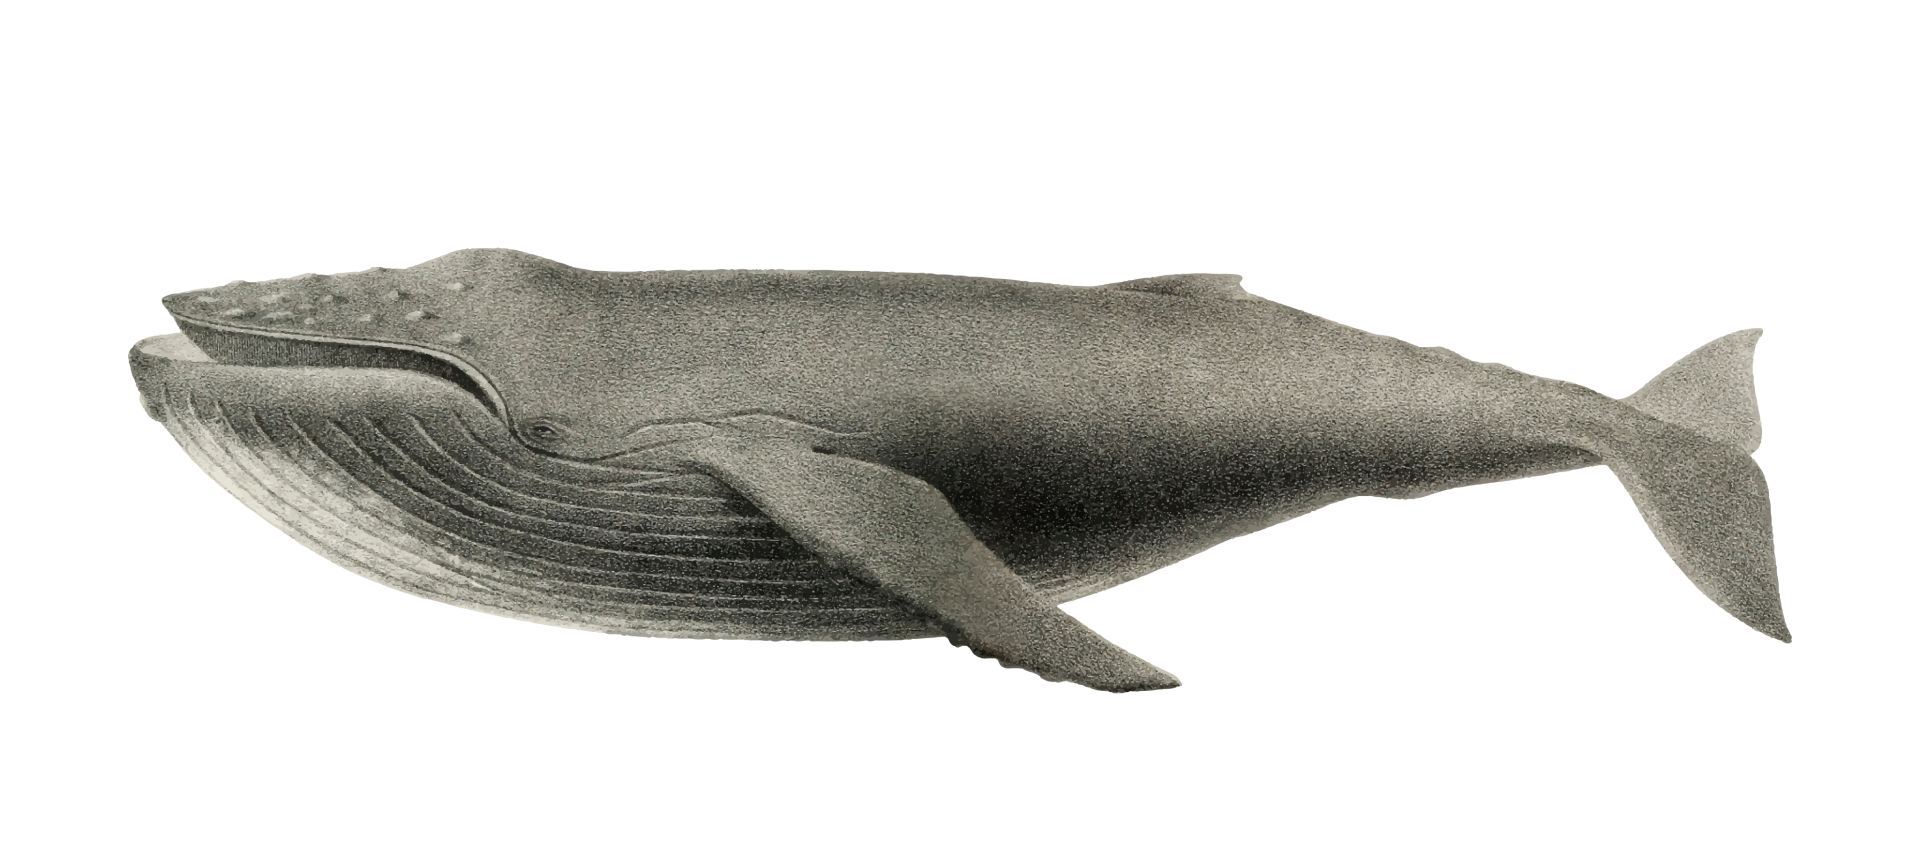
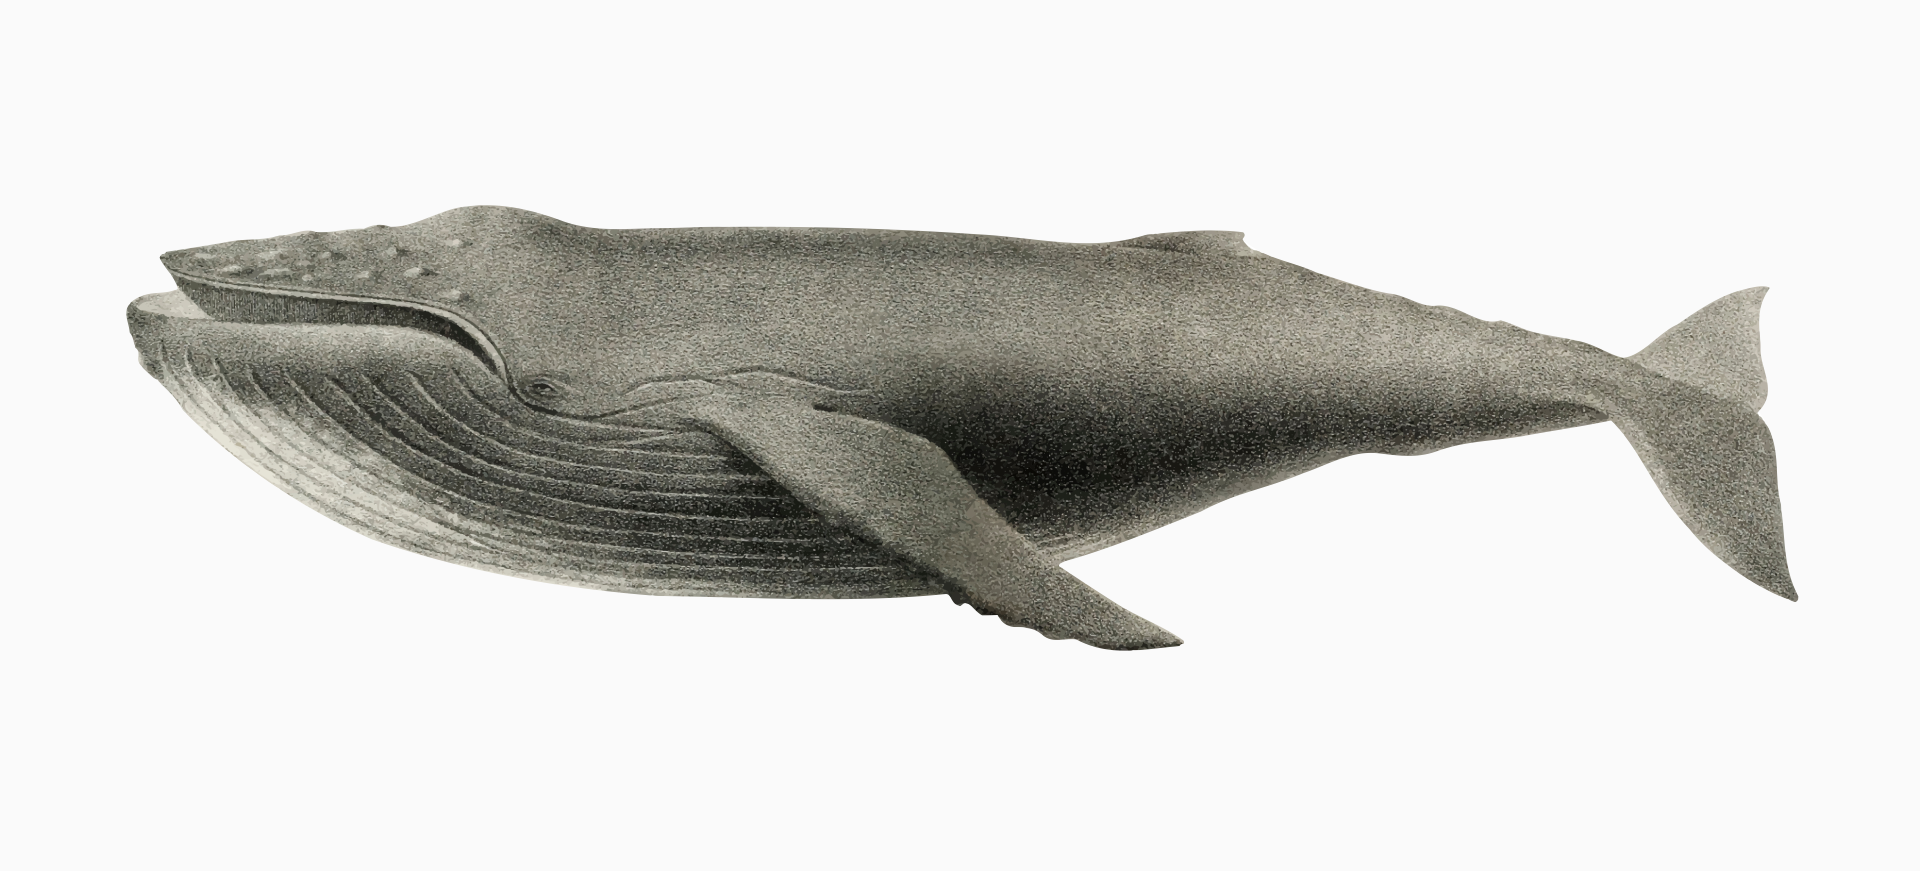
img and menu

Changed region(s): [[0.0625, 0.218, 0.9375, 0.8097]]

diff --git a/src/components/Navmenu.js b/src/components/Navmenu.js
@@ -1,0 +1,96 @@
+import React from 'react';
+import { Link } from "gatsby"
+
+import clsx from 'clsx';
+import { makeStyles } from '@material-ui/core/styles';
+import SwipeableDrawer from '@material-ui/core/SwipeableDrawer';
+import Button from '@material-ui/core/Button';
+import List from '@material-ui/core/List';
+import Divider from '@material-ui/core/Divider';
+import ListItem from '@material-ui/core/ListItem';
+import ListItemIcon from '@material-ui/core/ListItemIcon';
+import ListItemText from '@material-ui/core/ListItemText';
+import InboxIcon from '@material-ui/icons/MoveToInbox';
+import MailIcon from '@material-ui/icons/Mail';
+import scrollTo from 'gatsby-plugin-smoothscroll';
+
+const useStyles = makeStyles({
+  list: {
+    width: 250,
+  },
+  fullList: {
+    width: 'auto',
+  },
+});
+
+function getIdforLink(index){
+  switch(index){
+    case 0:
+      return '#hero-home';
+    case 1:
+      return '#products';
+    case 2:
+      return '#steps';
+    case 3:
+      return '#realisations'
+
+  }
+}
+
+export default function SwipeableTemporaryDrawer() {
+  const classes = useStyles();
+  const [state, setState] = React.useState({
+    top: false,
+    left: false,
+    bottom: false,
+    right: false,
+  });
+
+  const toggleDrawer = (anchor, open) => (event) => {
+    if (event && event.type === 'keydown' && (event.key === 'Tab' || event.key === 'Shift')) {
+      return;
+    }
+
+    setState({ ...state, [anchor]: open });
+  };
+
+  const list = (anchor) => (
+    <div
+      className={clsx(classes.list, {
+        [classes.fullList]: anchor === 'top' || anchor === 'bottom',
+      })}
+      role="presentation"
+      onClick={toggleDrawer(anchor, false)}
+      onKeyDown={toggleDrawer(anchor, false)}
+    >
+      <List>
+        {['Home', 'Cennik', 'Kroki', 'Realizacje'].map((text, index) => (
+          <ListItem>
+          <Link to={getIdforLink(index)} key={text}>
+            <ListItemText primary={text} />
+          </Link>
+          </ListItem>
+          
+        ))}
+      </List>
+    </div>
+  );
+const anchor = 'left';
+  return (
+    <div>
+      {/*{['left', 'right', 'top', 'bottom'].map((anchor) => (*/}
+        <React.Fragment key={anchor}>
+          <Button onClick={toggleDrawer(anchor, true)} style={{position: "fixed", top: '15px', left: "15px"}}>MENU</Button>
+          <SwipeableDrawer
+            anchor={anchor}
+            open={state[anchor]}
+            onClose={toggleDrawer(anchor, false)}
+            onOpen={toggleDrawer(anchor, true)}
+          >
+            {list(anchor)}
+          </SwipeableDrawer>
+        </React.Fragment>
+      {/*}))}*/}
+    </div>
+  );
+}

diff --git a/src/components/Products.js b/src/components/Products.js
@@ -141,7 +141,7 @@ const Products = () => {
               <Box p={3}  style={{ height: "100%" }} display="flex" flexDirection="column">
                 <Box >
                   <Typography variant="h4" align="center" gutterBottom>{item.title}</Typography>
-                  <Typography variant="h4" align="center" gutterBottom>{item.price} PLN</Typography>
+                  <Typography variant="h4" align="center" gutterBottom>od {item.price} PLN</Typography>
                 </Box>
                 <Divider />
                 <Box p={0} style={{ height: "100%" }} display="flex" flexDirection="column">
@@ -176,19 +176,19 @@ const Products = () => {
         <Box mt={4}>      
         <Grid container spacing={2}>
           <Grid item xs={12} md={6}>
-            <Paper>
+            <Paper style={{height: "100%"}}>
               <Box boxShadow={0} style={{ height: "100%" }} display="flex" flexDirection="column">
                 <Box p={3} display="flex" flexWrap="wrap" alignItems="center">
                   <Typography variant="h4" >Coś innego?</Typography>
                   <img src={ideaIcon} width="64px" height="64px" style={{marginLeft: "auto"}}/>
-                  <Typography style={{marginTop: "16px"}} variant="body1">Masz inny pomysł na swoją stronę? Znajdziemy rozwiązanie i zbudujemy stronę spełniające Twoje wymagania.</Typography>
+                  <Typography style={{marginTop: "16px"}} variant="body1">Masz już gotowy projekt strony? A może masz inny pomysł na swoją stronę? Znajdziemy rozwiązanie i zbudujemy stronę spełniające Twoje wymagania.</Typography>
                 </Box>
                 <Otherform title="Coś innego?" />
               </Box>
             </Paper>    
           </Grid>
           <Grid item xs={12} md={6}>
-            <Paper>
+            <Paper style={{height: "100%"}}>
               <Box boxShadow={0} style={{ height: "100%" }} display="flex" flexDirection="column">
                 <Box p={3} display="flex" flexWrap="wrap" alignItems="center">
                   <Typography variant="h4" >Modernizacja</Typography>

diff --git a/src/components/KontaktForm.js b/src/components/KontaktForm.js
@@ -36,6 +36,25 @@ const CssTextField = withStyles({
     },
   })(TextField);
 
+
+  const useStyles = makeStyles(theme => ({
+    gradient_dark: {
+      background: theme.palette.gradient.dark,
+      color: "#fff",
+      
+    },
+    btnList:{
+      background: theme.palette.gradient.dark,
+      color: "#fff",
+      margin: "8px 0",
+      padding: "8px 16px",
+      flexGrow: "1",
+      fontSize: "24px",
+      borderRadius: "0",
+      textTransform: "none"
+    }
+  }));
+
 export default function Contact() {
   const [state, setState] = React.useState({})
 
@@ -57,6 +76,8 @@ export default function Contact() {
       .then(() => navigate(form.getAttribute("action")))
       .catch(error => alert(error))
   }
+
+  const classes = useStyles()
 
   return (
     <form
@@ -127,7 +148,7 @@ export default function Contact() {
           />
         </Grid>
         <Grid item xs={12} style={{display: "flex"}}>
-          <Button variant="contained" color="primary" style={{marginLeft: "auto", textTransform: "none"}}>
+          <Button variant="contained" color="primary"  className={classes.gradient_dark} style={{marginLeft: "auto", textTransform: "none"}}>
             Wyślij
           </Button>
         </Grid>

diff --git a/src/components/layout.js b/src/components/layout.js
@@ -19,10 +19,9 @@ import { CssBaseline } from "@material-ui/core"
 import useMediaQuery from "@material-ui/core/useMediaQuery"
 import Switch from "@material-ui/core/Switch"
 import { connect } from "react-redux"
-
 import Header from "./header"
 import "./layout.css"
-
+import Navmenu from "./Navmenu"
 /*let theme = createMuiTheme({
   palette: {
     type: 'light',
@@ -38,6 +37,9 @@ import "./layout.css"
   },
 });
 */
+if (typeof window !== 'undefined') {
+  require('smooth-scroll')('a[href*="#"]');
+}
 
 const Layout = ({ children }) => {
   //pobiera wartość mediaquery gdy 'window' jest określony
@@ -88,11 +90,12 @@ const Layout = ({ children }) => {
         <CssBaseline />
         {/*<Switch checked={darkState} onChange={handleThemeChange} />*/}
         <Header handleThemeChange={handleThemeChange} darkState={darkState} />
+        <Navmenu />
         <main>{children}</main>
-        <footer>
-          © {new Date().getFullYear()}, Built with
+        <footer style={{textAlign: "center"}}>
+          © {new Date().getFullYear()},
           {` `}
-          <a href="https://www.gatsbyjs.com">Gatsby</a>
+          Stary Wieloryb
         </footer>
       </ThemeProvider>
     </>

diff --git a/src/components/OldWhale.js b/src/components/OldWhale.js
@@ -1,12 +1,19 @@
 import * as React from "react"
 
 import { StaticImage } from "gatsby-plugin-image"
+import { useTheme } from "@material-ui/core/styles"
 
 
 export default function OldWhale() {
+
+  const isDarkTheme = useTheme().palette.type === "dark"
+
     return(
-    <section>
-      <StaticImage style={{position: "fixed", top:"0", left:"0", zIndex:"-1"}} src="../images/oldwhale.png" alt="A kitten" /> 
+    <section style={{minHeight: "ingherit"}}>
+      {isDarkTheme
+        ? <StaticImage style={{position: "fixed", top:"50%", transform: "translateY(-50%)", left:"0", zIndex:"-1"}} src="../images/dark_oldwhale.png" alt="A kitten" /> 
+        :<StaticImage style={{position: "fixed", top:"50%", transform: "translateY(-50%)", left:"0", zIndex:"-1"}} src="../images/oldwhale.png" alt="A kitten" /> 
+      }
     </section> 
     )
     

diff --git a/src/components/Kontakt.js b/src/components/Kontakt.js
@@ -30,6 +30,7 @@ const Kontakt = () => {
       width: "100%",
     },
   }
+
   return (
     <section id="kontakt">
       <Container>
@@ -41,12 +42,10 @@ const Kontakt = () => {
             alignItems="flex-start"
             justifyContent="center"
           >
-            <Paper square elevation={0} style={{padding: "16px"}}>
-              <Typography variant="h2">Napisz do mnie</Typography>
+              <Typography paragraph  variant="h2">Napisz do mnie</Typography>
               <Typography paragraph variant="body1">
                 Masz pytanie? Chciałbyś wiedzieć więcej?
               </Typography>
-            </Paper>           
           </Box>
           <Box style={match_md ? style.img : style.img_sm}>
             <Paper square elevation={0} style={{padding: "16px"}}>

diff --git a/src/components/About.js b/src/components/About.js
@@ -48,11 +48,11 @@ const About = () => {
               alignItems="flex-start"
               justifyContent="center"
             >
-              <Paper square elevation={0} style={{padding: "16px"}}>
                 <Box mb={4}>
                   <Typography variant="h2">{about.title}</Typography>
                 </Box>
-              
+                <Paper square elevation={0} style={{padding: "16px"}}>
+
                 <Typography paragraph variant="body1" mb={2}>Cześć! Mam na imię Marcin.</Typography>
                 <Typography paragraph variant="body1">{about.desc}</Typography>
                 <Typography paragraph variant="body1">Pomogę Ci wprowadzić Twój biznes do internetu.</Typography>

diff --git a/src/components/PricelistForm.js b/src/components/PricelistForm.js
@@ -99,7 +99,7 @@ export default function ResponsiveDialog(props) {
         aria-labelledby="responsive-dialog-title"
       >
         <DialogTitle id="responsive-dialog-title">
-            <Typography variant="h4">Chcę zbudować stronę w wersji: {props.title} <Box component="span" style={{whiteSpace: "nowrap"}}>({props.price} PLN)</Box></Typography></DialogTitle>
+            <Typography variant="h4">Chcę zbudować stronę w wersji: {props.title} <Box component="span" style={{whiteSpace: "nowrap"}}>(od {props.price} PLN)</Box></Typography></DialogTitle>
         <DialogContent>
             <Box display={fullScreen ? "block" : "flex"}>
             <Box flex="1" pr={{sm: 4}}>

diff --git a/src/components/sectiontitle.js b/src/components/sectiontitle.js
@@ -7,10 +7,10 @@ import Paper from '@material-ui/core/Paper';
 const Sectiontitle = ({ title = "Section title", subtitle }) => {
   return (
     <Box component="div" mb={4} mt={0}>
-      <Paper square elevation={0} style={{padding: "16px"}}>
+      {/*<Paper square elevation={0} style={{padding: "16px"}}>*/}
         <Typography variant="h2">{title}</Typography>
         <Typography variant="body1">{subtitle}</Typography>
-      </Paper>
+      {/*</Paper>*/}
     </Box>
   )
 }

diff --git a/gatsby-config.js b/gatsby-config.js
@@ -30,6 +30,7 @@ module.exports = {
         icon: `src/images/gatsby-icon.png`, // This path is relative to the root of the site.
       },
     },
+    `gatsby-plugin-smoothscroll`,
     `gatsby-plugin-gatsby-cloud`,
     `gatsby-plugin-material-ui`,
     {
